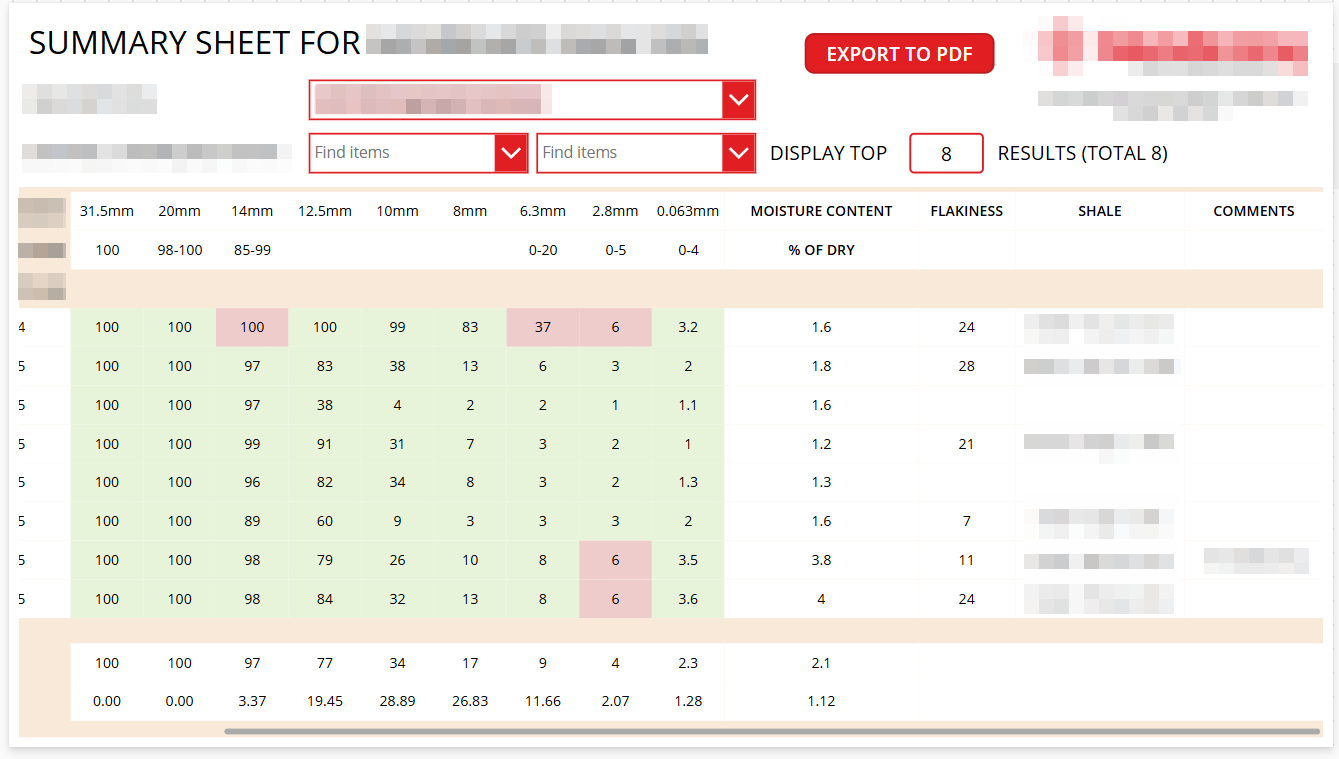
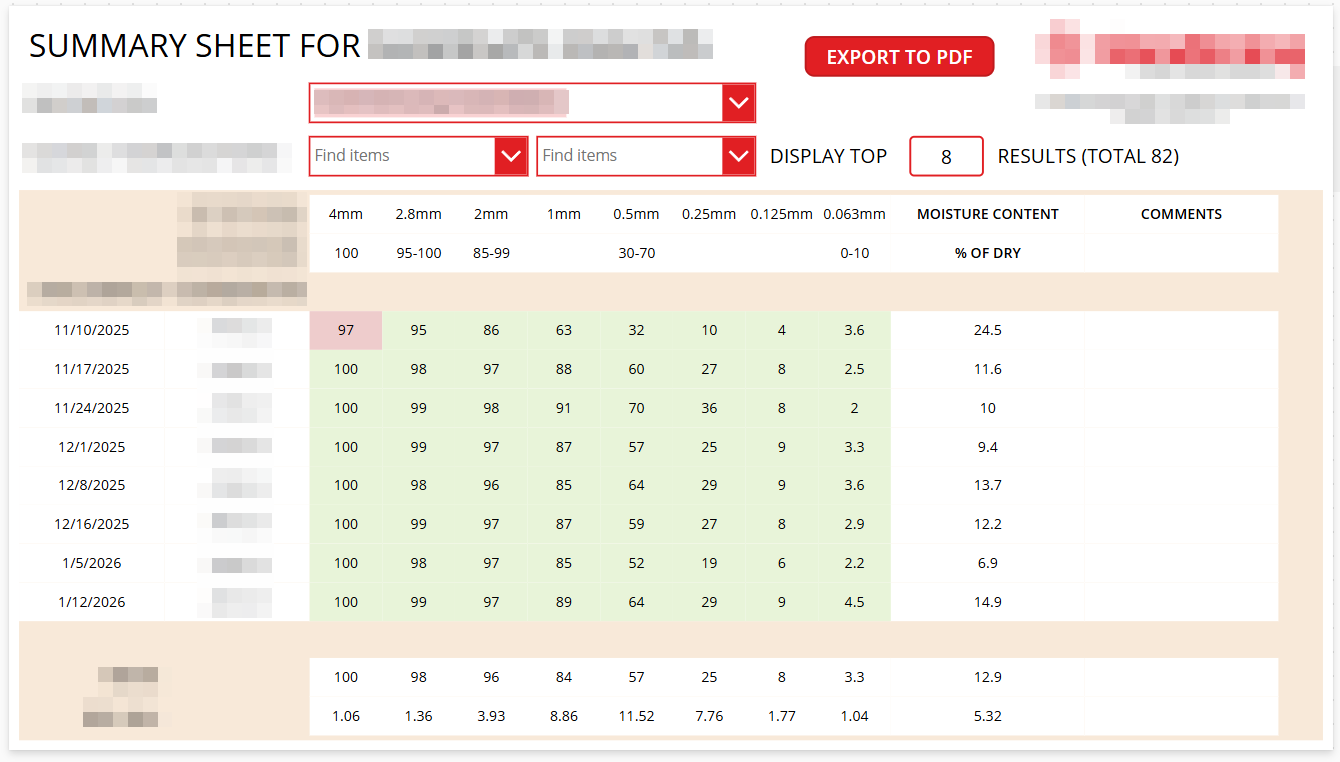
more screenshots added and small updates

diff --git a/PowerPlatform.html b/PowerPlatform.html
@@ -22,10 +22,17 @@
 
                     <div class="carousel-viewport">
                         <div class="carousel-track">
-                          <img src="images/test1.png" alt="Holiday app - request screen">
-                          <img src="images/test2.png" alt="Holiday app - manager approval">
-                          <img src="images/test3.png" alt="Holiday app - calendar view">
-                          <img src="images/test4.png" alt="Holiday app - calendar view">
+                          <img src="images/SY/PPSYC.png" alt="Holiday app - request screen">
+                          <img src="images/SY/PPSYC1.png" alt="Holiday app - request screen">
+                          <img src="images/SY/PPSYC2.png" alt="Holiday app - request screen">
+                          <img src="images/SY/PPSYC3.png" alt="Holiday app - request screen">
+                          <img src="images/SY/PPSYC4.png" alt="Holiday app - request screen">
+                          <img src="images/SY/PPSYC5.png" alt="Holiday app - request screen">
+                          <img src="images/SY/PPSYC6.png" alt="Holiday app - request screen">
+                          <img src="images/SY/PPSYC7.png" alt="Holiday app - request screen">
+                          <img src="images/SY/PPSYC8.png" alt="Holiday app - request screen">
+                          <img src="images/SY/PPSYC9.png" alt="Holiday app - request screen">
+                          <img src="images/SY/PPSYC10.png" alt="Holiday app - request screen">
                         </div>
                     </div>
 
@@ -77,6 +84,72 @@
                             </li>
 
                         </ul>
+                    </li>
+                </ul>
+
+            </div>
+
+        </div>
+
+    </div>
+
+    <!-- ALCOHOL AND DRUG SCREENING APP -->
+    <div class="collapsible" id="holiday-app">
+
+        <div class="collapsible-header">
+            <h3>ALCOHOL AND DRUG SCREENING APP</h3>
+            <span class="toggle-icon">▾</span>
+        </div>
+
+        <div class="collapsible-content">
+
+            <div id="screeningApp-container" class="app-container">
+
+                <div class="img-carousel" data-carousel>
+                    <button class="carousel-btn prev" type="button" aria-label="Previous image">‹</button>
+
+                    <div class="carousel-viewport">
+                        <div class="carousel-track">
+                          <img src="images/EH/PPEH1.png" alt="Holiday app - request screen">
+                          <img src="images/EH/PPEH2.png" alt="Holiday app - request screen">
+                          <img src="images/EH/PPEH3.png" alt="Holiday app - request screen">
+                          <img src="images/EH/PPEH4.png" alt="Holiday app - request screen">
+                          <img src="images/EH/PPEH5.png" alt="Holiday app - request screen">
+                        </div>
+                    </div>
+
+                    <button class="carousel-btn next" type="button" aria-label="Next image">›</button>
+
+                    <div class="carousel-dots" aria-label="Carousel navigation"></div>
+                 </div>
+
+                <p>An app for requesting immediate or planned alcohol and drug tests for a company that runs with a fleet of vehichles.</p>
+
+                <p>Immediate tests were requested at the time of accidents or if there were suspicions around a driver.</p>
+                <p>Planned tests were for screening new employees or for scheduling random tests.</p>
+
+
+
+                <h4>SharePoint</h4>
+
+                <p>I created the below in SharePoint:</p>
+
+                <ul>
+                    <li>Holday Data - a list of all employees including their; shift pattern, manager, remaining holiday balance, holiday carried over from the previous year and total holiday balance.</li>
+                    <li>Rota Days - a list containing employees who work rota day's and which day(s) of the week they do not work.</li>
+                    <li>Public Holidays - a list of all public holidays and (if required) any days the whole company is closed (for example ordinary working days between Christmas and New Year.</li>
+                    <li>Requested Holiday - a list of all holiday requests, who requested the holiday, the start and end date, whether the holiday was accepted/rejected and holiday balance to be deducted.</li>
+                    <li>Accepted Holiday Expanded - a list of any accepted holiday requests; listing each individual days's holiday between the requested dates, whether its a weekened, rota day or public holiday, whether each of the listed days need to be deducted from an individuals holiday balance and (if applicable) the balance to be deduced for each day</li>  
+                    <li>Holiday Data - a calendar view of all accepted holiday embedded in Microsoft Teams.</p>
+                </ul>
+
+                <h4>Power Automate</h4>
+
+                <p>There are multiple flows in Power Automate:</p>
+
+                <ul>
+                    <li>
+                      
                     </li>
                 </ul>
 
@@ -163,6 +236,10 @@
                           <img src="images/LB/PPLBPA4.png" alt="Holiday app - manager approval screen">
                           <img src="images/LB/PPLBPA2.png" alt="Holiday app - calendar view">
                           <img src="images/LB/PPLBPA7.png" alt="Holiday app - calendar view">
+                          <img src="images/LB/PPLBEmail.png" alt="Holiday app - calendar view">
+                          <img src="images/LB/PPLBNotification.png" alt="Holiday app - calendar view">
+                          <img src="images/LB/PPLBNotification2.png" alt="Holiday app - calendar view">
+                          <img src="images/LB/PPLBTimer.png" alt="Holiday app - calendar view">
                           <img src="images/LB/PPLBEmail.png" alt="Holiday app - calendar view">
                         </div>
                     </div>
@@ -271,7 +348,7 @@
                 <p>The below example includes relevant links to different sections of the SharePoint site; number of working hours logged by the user for the week, current location (be it remote or different office sites - as requested by the client to help staff identify when records need to be updated) and relevant details from a users last job.</p>
                 <p>The aesthetic of the dashboard is designed to be in keeping with the company's website and branding.</p>
 
-                <img class="dashboard-app" src="images/ED/PPDashboard1.png" alt="SharePoint Dashboard">
+                <img class="dashboard-app" src="images/EB/PPDashboard1.png" alt="SharePoint Dashboard">
                 
             </div>
 

diff --git a/career.html b/career.html
@@ -23,7 +23,6 @@
                 <li>Built and optimised WordPress websites, leveraging plugins such as Toolset and Elementor for enhanced functionality and improved user experience.</li>
                 <li>Served as company representative at networking events and B2B trade shows, building relationships and generating business leads.</li>
                 <li>Contributed to business development and marketing strategy through research, analysis, and implementation of process improvements.</li>
-                <li>Mentored and supported junior developers in designing and delivering solutions using Power Apps, Power Automate and SharePoint.</li> 
                 <li>Responsible for delivering improvements and enhancements to Springboard IT’s internal Dynamics 365 environment, and acting as the lead developer for customer-facing Dynamics queries, including the recovery and migration of 50k+ email activities from an obsolete environment into a new platform.</li>
                 <li>Designed and delivered Power BI reporting solutions, including ongoing maintenance, optimisation, and enhancements.</li>
                 <li>Delivered ad hoc technical work, including migrating back-end data from Microsoft Access to SharePoint lists, upgrading SharePoint sites from Classic to Modern, and migrating files and folders at scale between SharePoint sites.</li>

diff --git a/Styles/styles.css b/Styles/styles.css
@@ -30,7 +30,7 @@
     padding: 5px;
     background-color: white; 
     text-align: left;
-    color: #2C3E50;
+    color: black;
 }
 
 .box1 {
@@ -79,6 +79,8 @@
     width: 100%;
     max-width: 800px;
     margin-bottom: 20px;
+    background-color: white; 
+
 }
 
 .link-box {
@@ -88,10 +90,12 @@
 }
 
 .link-box img {
-    width: 100%;
+    width: 93px;
     height: auto;
     display: block;
     cursor: pointer;
+    background-color: white; 
+
 }
 
 .link-box img:hover {
@@ -100,6 +104,8 @@
 
 .link-box button {
     border: 0px;
+    background-color: white; 
+
 }
 
 #content-pane, #privacy-content-pane {
@@ -140,6 +146,7 @@
     padding-bottom: 15px;
     padding-bottom: 30px;
 }
+
 
 
 /* BACK TO TOP BUTTON */
@@ -183,7 +190,7 @@
   height: 50px;
   background-color: #f6f6f6;
   border-bottom: 1px solid #d9d9d9;
-  border-left: 1px solid #d9d9d9;
+  border-right: 1px solid #d9d9d9;
   /*box-shadow: 0px 5px 0px 0px grey;*/
   position: relative;
   z-index: 999;
@@ -321,6 +328,6 @@
   margin: 12px 0 18px;
   overflow: hidden;
   object-fit: contain;
-  background: white;
+  background: #d9d9d9;
   padding: 10px;
 }

diff --git a/homepage.html b/homepage.html
@@ -57,13 +57,13 @@
 
             <div class="link-box">
                 <button type="button" title="View my General Assembly Projects" class="content-loader" data-file="GAProjects.html" id="GA-button">
-                    <img src="Images/GA.png.png" alt="General Assembly Projects">
+                    <img src="Images/GANew2.png" alt="General Assembly Projects">
                 </button>
             </div>
 
             <div class="link-box">
                 <button type="button" title="View my Education" class="content-loader" data-file="education.html" id="education-button">
-                    <img src="Images/education.png" alt="Education">
+                    <img src="Images/Education2.png" alt="Education">
                 </button>
             </div>
 

diff --git a/Styles/carousel.css b/Styles/carousel.css
@@ -23,7 +23,7 @@
   flex: 0 0 100%;
   height: 320px;          
   object-fit: contain;    
-  background: white;
+  background: #d9d9d9;
 }
 
 .carousel-btn {
